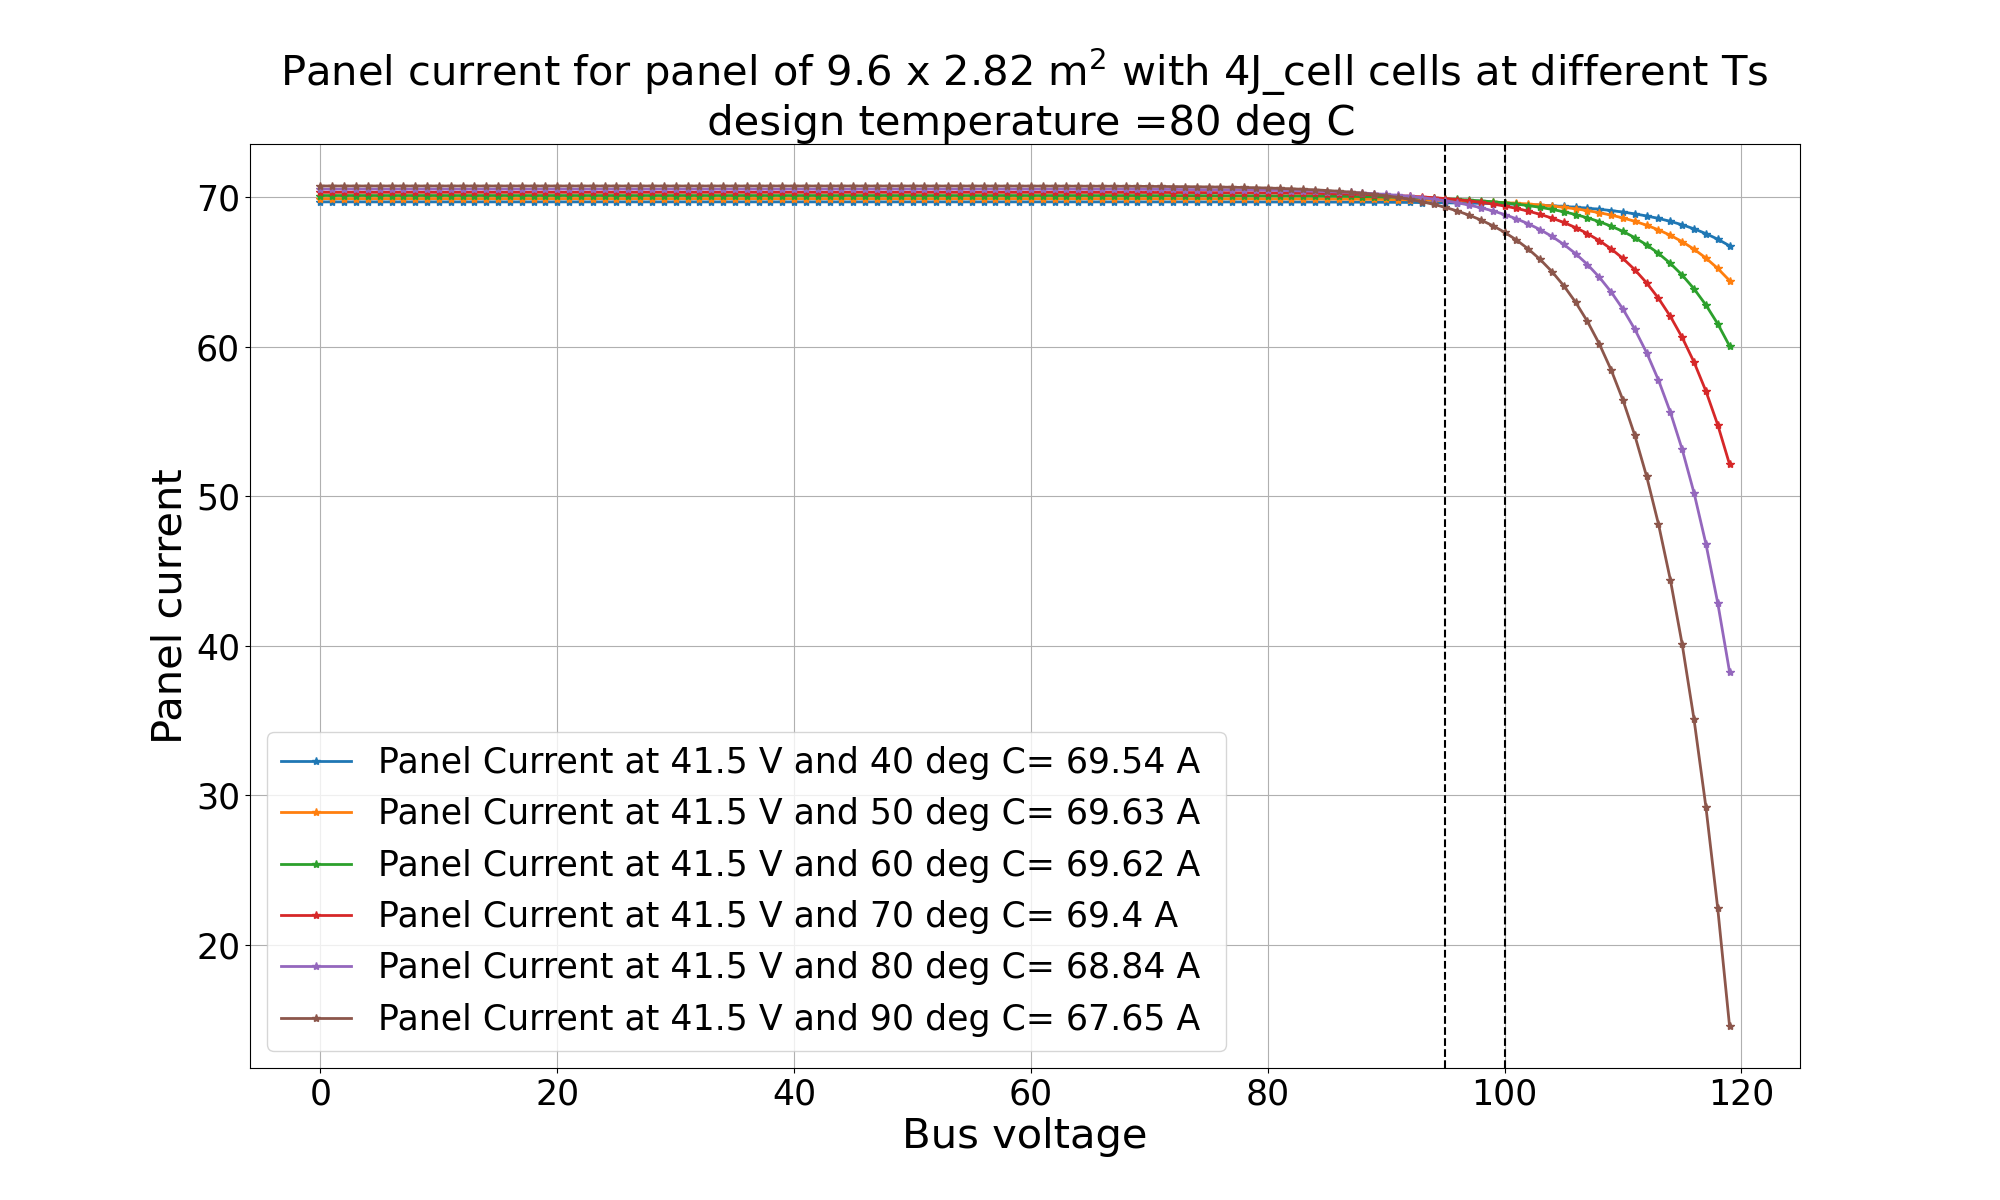
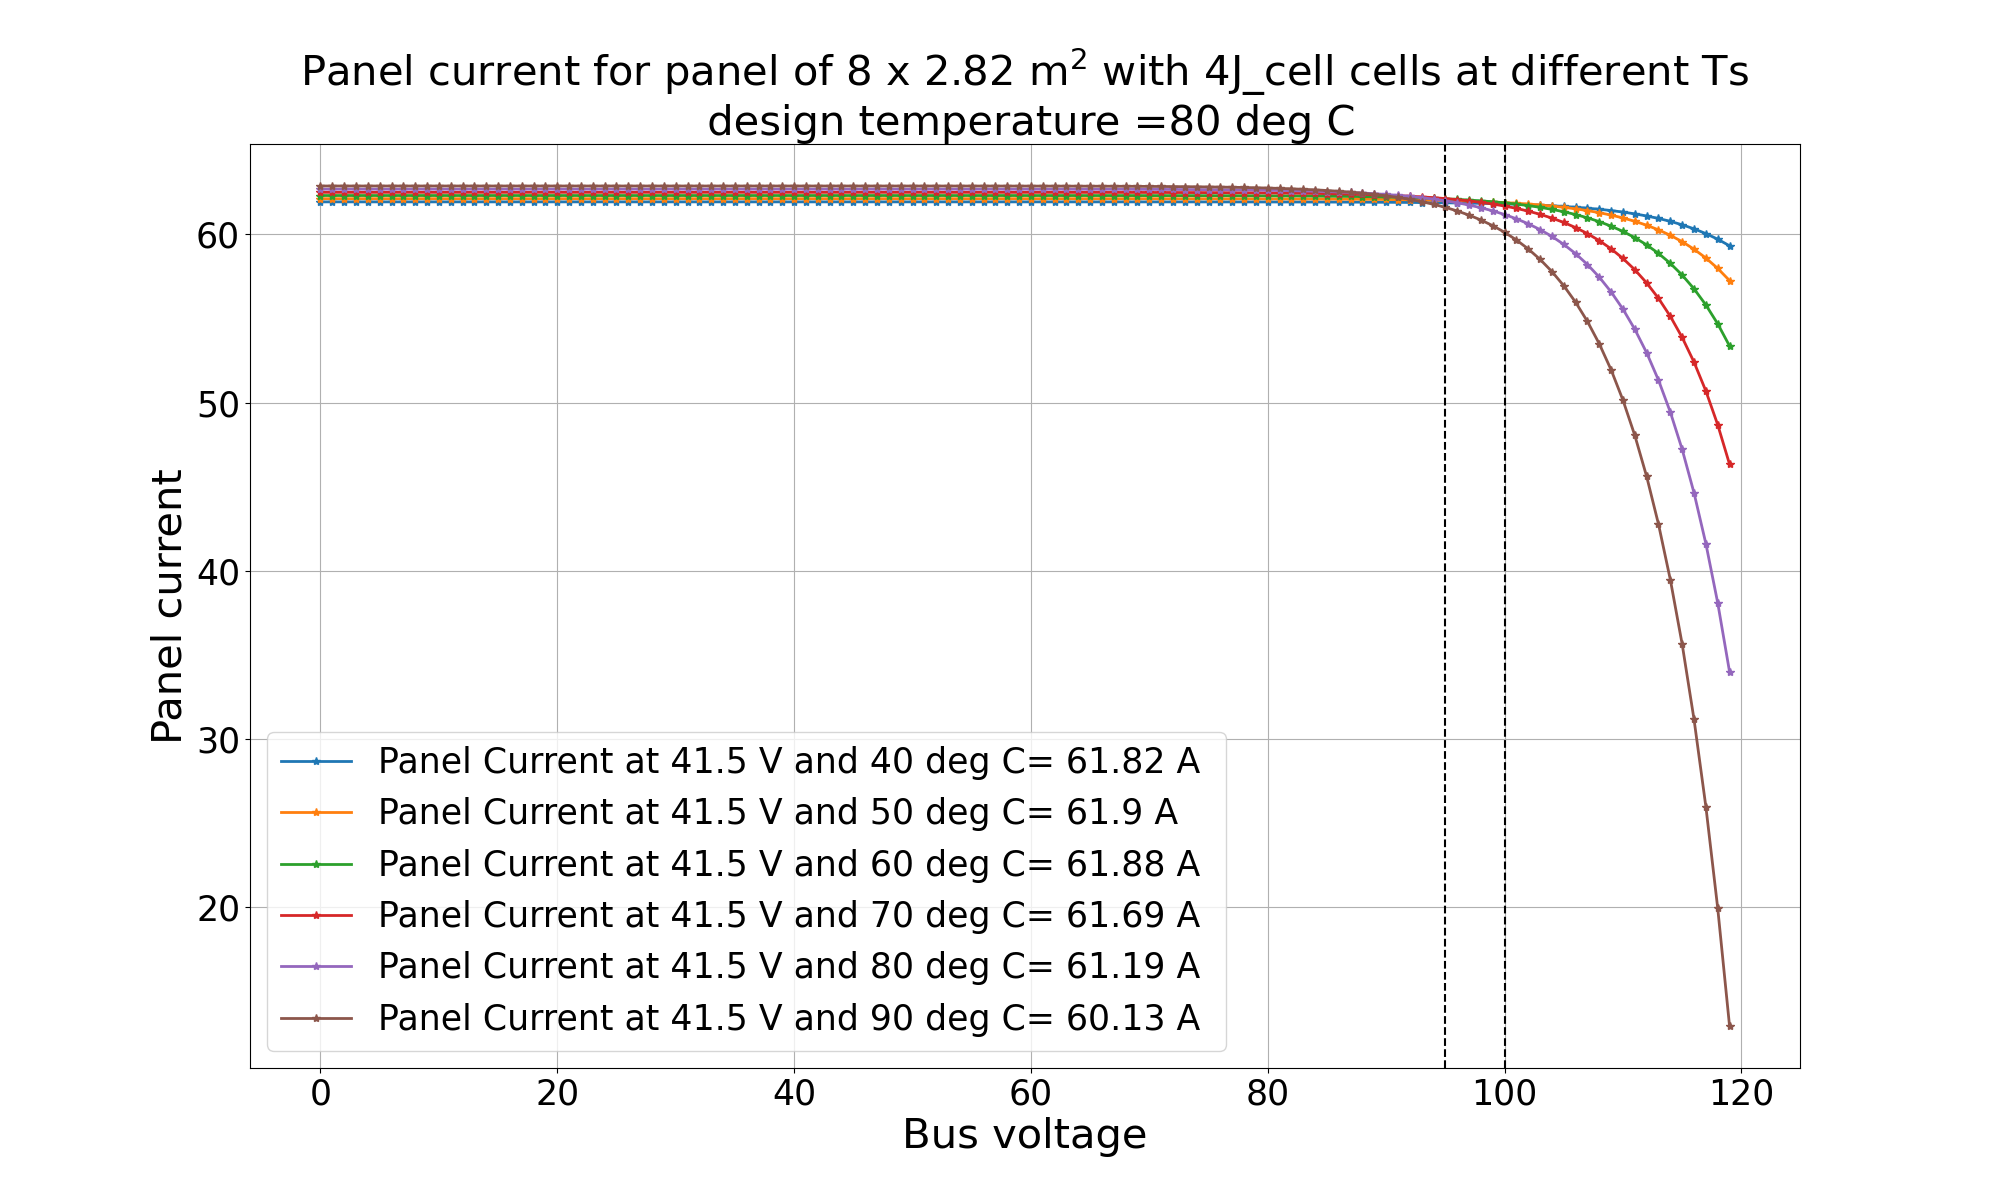
Layout visualization added

diff --git a/layout_visualization.py b/layout_visualization.py
@@ -1,0 +1,74 @@
+import matplotlib.pyplot as plt
+from matplotlib.patches import Rectangle
+import os
+def layout(ns, mission_details):
+
+    cur_path = os.getcwd()
+    # Panel dimensions
+    panel_width = mission_details['L']
+    panel_height = mission_details['W']
+
+    # Subpanel dimensions
+    subpanel_width = panel_width/mission_details['sub_panel_num_width']
+    subpanel_height = panel_height/ mission_details['sub_panel_num_height']
+
+    # Rectangle dimensions
+    rect_width = ns/11 * 0.04
+    rect_height = 11 * 0.08
+
+    # Spacing
+    spacing_x = 0.001
+    spacing_y = 0.001
+
+    # Initialize variables
+    rectangles = []
+    subpanel_rectangles = set()  # Set to keep track of rectangles in each subpanel
+
+    # Function to check if a rectangle is within a subpanel
+    def is_within_subpanel(x, y, subpanel_x, subpanel_y):
+        return x >= subpanel_x and x + rect_width <= subpanel_x + subpanel_width and y >= subpanel_y and y + rect_height <= subpanel_y + subpanel_height
+
+    # Generate rectangles for each subpanel
+    for i in range(int(panel_width / subpanel_width)):
+        for j in range(int(panel_height / subpanel_height)):
+            # Calculate starting coordinates of the subpanel
+            subpanel_x = i * subpanel_width
+            subpanel_y = j * subpanel_height
+            
+            # Add rectangles to the subpanel
+            current_x = subpanel_x
+            current_y = subpanel_y
+            while current_y + rect_height <= subpanel_y + subpanel_height:
+                while current_x + rect_width <= subpanel_x + subpanel_width:
+                    # Check if rectangle is within the subpanel and not already in another subpanel
+                    if is_within_subpanel(current_x, current_y, subpanel_x, subpanel_y) and (current_x, current_y) not in subpanel_rectangles:
+                        rect = Rectangle((current_x, current_y), rect_width, rect_height, edgecolor='black', facecolor='none')
+                        rectangles.append(rect)
+                        subpanel_rectangles.add((current_x, current_y))
+                    
+                    current_x += rect_width + spacing_x
+                current_x = subpanel_x
+                current_y += rect_height + spacing_y
+
+    # Plotting
+    fig, ax = plt.subplots(figsize=(20,12))
+    ax.set_xlim(0, panel_width)
+    ax.set_ylim(0, panel_height)
+
+    # Add rectangles to the plot
+    for rect in rectangles:
+        ax.add_patch(rect)
+
+    ax.set_aspect('equal', 'box')
+    ax.invert_yaxis()
+    ax.axhline(subpanel_height, ls='--', color='forestgreen')
+    ax.axhline(subpanel_height * 2, ls='--', color='forestgreen')
+    ax.axvline(subpanel_width, ls='--', color='forestgreen')
+    ax.set_title(mission_details['mission_name']+' \n solar array layout visualization', fontsize = 30)
+    folder_path = os.path.join(cur_path, 'Plots/', mission_details['mission_name']+'_panel_layout.png')
+    plt.savefig(folder_path)
+
+    # Number of rectangles
+    num_rectangles = len(rectangles)
+    print("Number of parallels from layout:", num_rectangles)
+    return num_rectangles

diff --git a/bas_system.py b/bas_system.py
@@ -7,12 +7,14 @@ import matplotlib.pyplot as plt
 cur_path = os.getcwd()
 
 from panel_design import *
-
+from layout_visualization import *
 mission_details = {
     'mission_name': 'Space_station_base_module',
-    'L': 9.6,
+    'L': 8,
     'W': 2.82,
-    'packing_eff': 0.85,
+    'packing_eff': 0.91,
+    'sub_panel_num_width': 2,
+    'sub_panel_num_height': 3,
     'bus_vlt': 100,
     'harn_drop': 7,
     'des_T': 80,
@@ -41,3 +43,4 @@ cell_details = {
 
 ns, n_p, i_l = pan_cur(cell_details=cell_details, mission_details=mission_details)
 _,_,t_results = temp_pan_cur(cell_details=cell_details, mission_details=mission_details)
+n_p_from_layout = layout(ns = ns, mission_details=mission_details)
